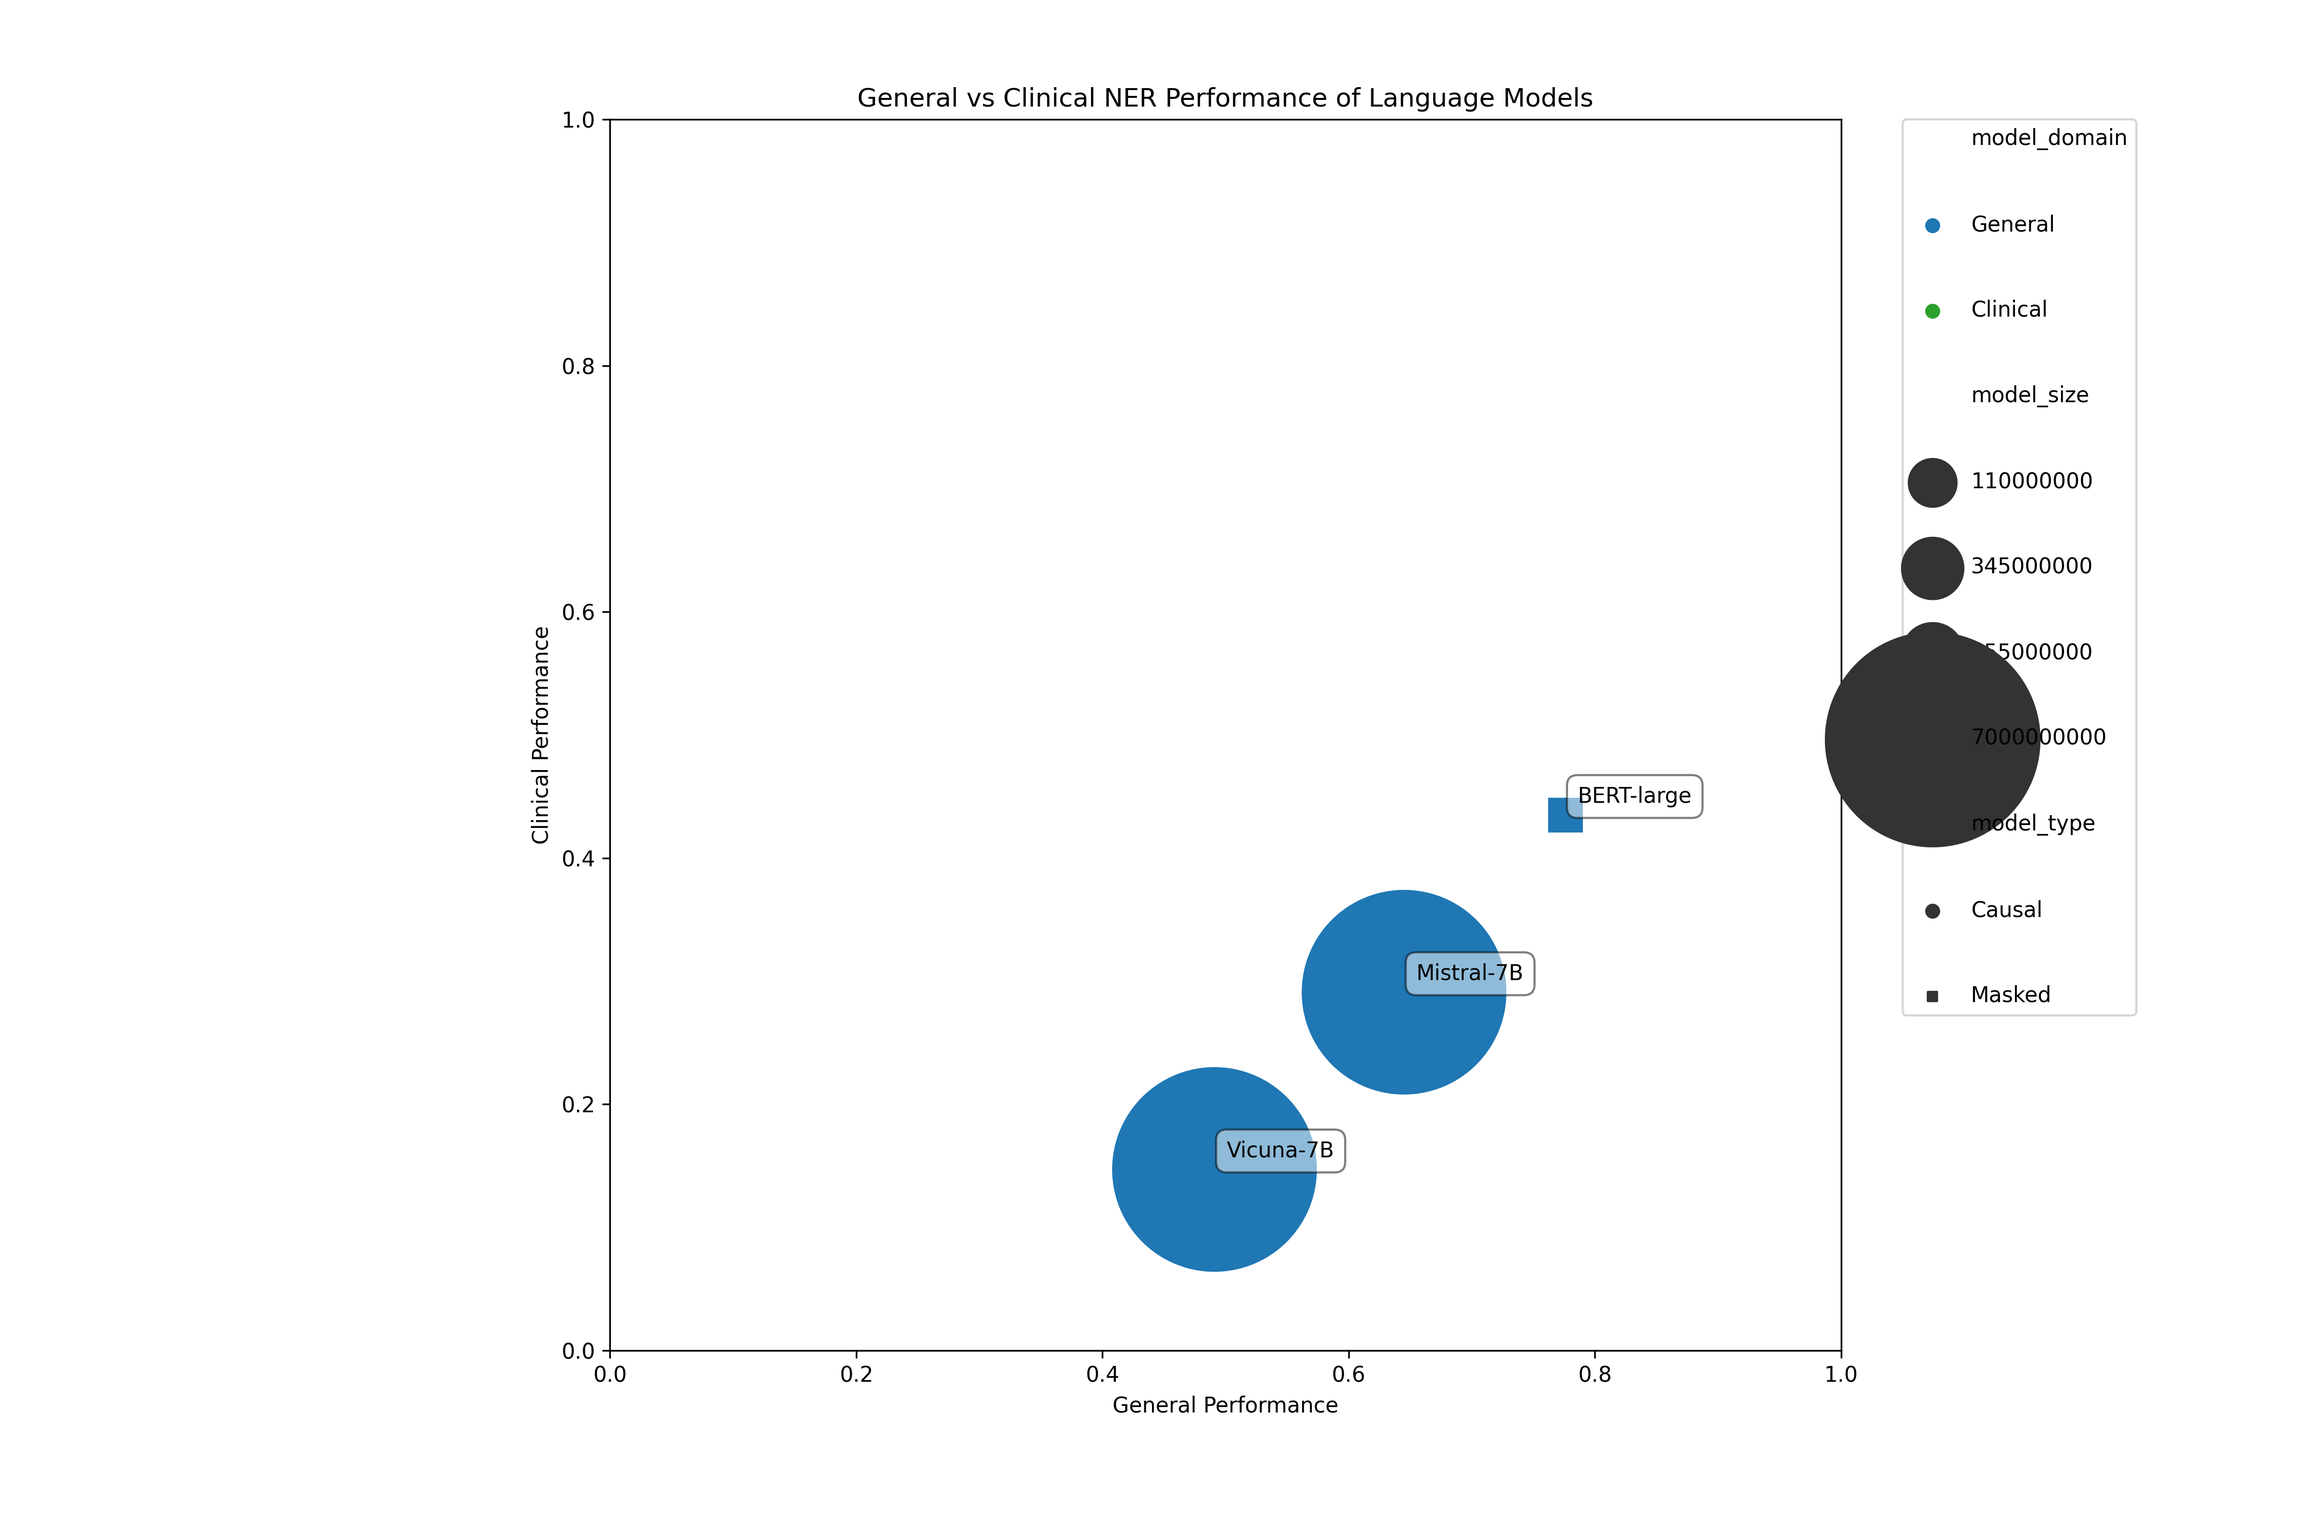
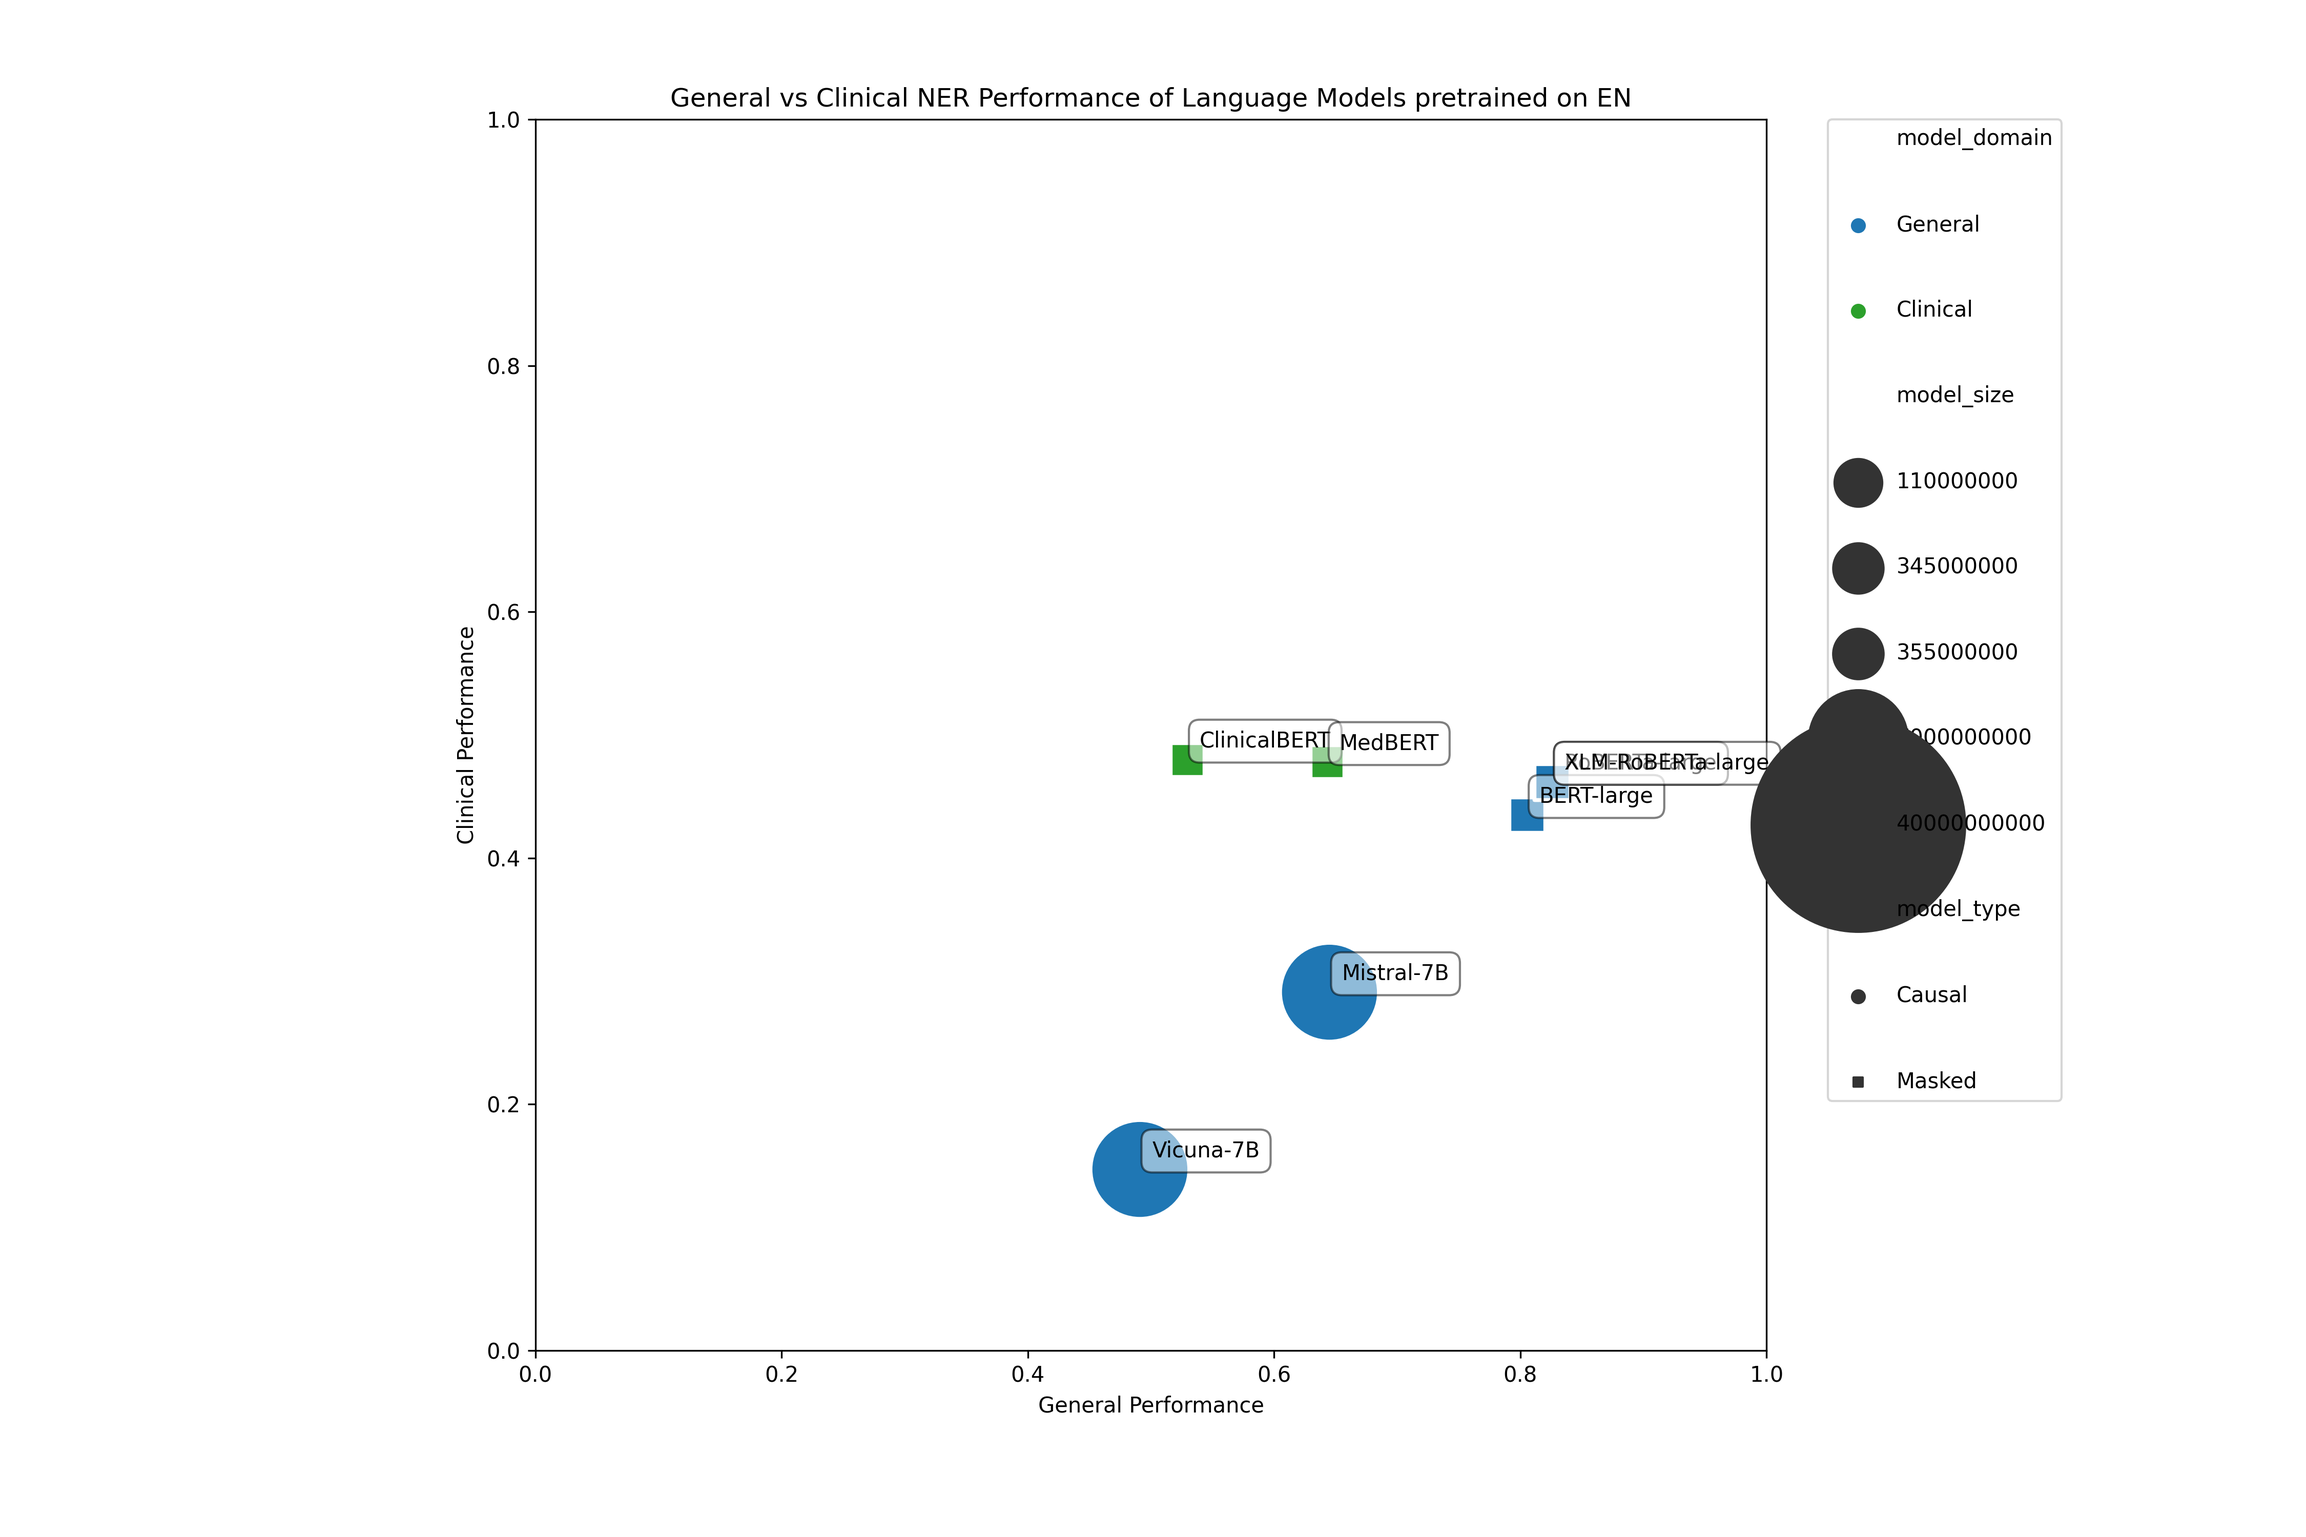
better results

diff --git a/read_jsons.py b/read_jsons.py
@@ -8,30 +8,35 @@ M=10**6
 
 dataset_hierarchy = {
     "en":{
-        "General": [
-            {"conll2003": "CoNLL2003"},
-            {"WikiNER-en": "WikiNER-en"},
-        ],
-        "Clinical": [
-            {"n2c2": "n2c2"},
-        ],
+        "General": {
+            "WikiNER-en": "WikiNER-en",
+            "conll2003": "CoNLL2003",
         },
+        "Clinical": {
+            "e3c-en": "E3C-en",
+            "n2c2": "n2c2",
+        },
+    },
     "fr": {
-        "General": [
-            {"WikiNER-fr": "WikiNER-fr"},
-        ],
-        "Clinical": [
-            {"emea": "EMEA"},
-            {"medline": "MEDLINE"},
-        ],
+        "General": {
+            "WikiNER-fr": "WikiNER-fr",
+        },
+        "Clinical": {
+            "e3c-fr": "E3C-fr",
+            "emea": "EMEA",
+            "medline": "MEDLINE",
+        },
     },
     "es": {
-        "General": [
-            {"conll2002-es": "CoNLL2002"},
-            {"WikiNER-es": "WikiNER-es"},
-        ],
-        "Clinical": []
-    }
+        "General": {
+            "WikiNER-es": "WikiNER-es",
+            "conll2002-es": "CoNLL2002",
+        },
+        "Clinical": {
+            "e3c-es": "E3C-es",
+            "CWL": "CWL",
+        },
+    },
 }
 model_hierarchy = {
     "Masked": {
@@ -40,49 +45,49 @@ model_hierarchy = {
                 "name": "roberta-large", 
                 "clean_name": "RoBERTa-large",
                 "size": 355*M,
-                "languages" : ["en",],
+                "languages" : "en",
             },
             {
                 "name": "camembert-base",
                 "clean_name": "CamemBERT-base",
                 "size": 110*M,
-                "languages" : ["fr",],
+                "languages" : "fr",
             },
             {
                 "name": "camembert-large",
                 "clean_name": "CamemBERT-large",
                 "size": 335*M,
-                "languages" : ["fr",],
+                "languages" : "fr",
             },
             {
                 "name": "bert-large-cased",
                 "clean_name": "BERT-large",
                 "size": 345*M,
-                "languages" : ["en",],
+                "languages" : "en",
             },
             {
                 "name": "tulio-chilean-spanish-bert",
                 "clean_name": "TulioBERT",
                 "size": 110*M,
-                "languages" : ["es",],
+                "languages" : "es",
             },
             {
                 "name": "patana-chilean-spanish-bert",
                 "clean_name": "PatanaBERT",
                 "size": 110*M,
-                "languages" : ["es",],
+                "languages" : "es",
             },
             {
                 "name": "bert-base-spanish-wwm-uncased",
-                "clean_name": "BERT-base-Spanish",
+                "clean_name": "BETO",
                 "size": 110*M,
-                "languages" : ["es",],
+                "languages" : "es",
             },
             {
                 "name": "xlm-roberta-large",
                 "clean_name": "XLM-RoBERTa-large",
                 "size": 355*M,
-                "languages" : ["en", "fr", "es"],
+                "languages" : "all",
             }
         ],
         "Clinical":[
@@ -90,33 +95,45 @@ model_hierarchy = {
                 "name": "ClinicalBERT",
                 "clean_name": "ClinicalBERT",
                 "size": 110*M,
-                "languages" : ["en",],
+                "languages" : "en",
             },
             {
                 "name": "MedBERT",
                 "clean_name": "MedBERT",
                 "size": 110*M,
-                "languages" : ["en",],
+                "languages" : "en",
             },
             {
                 "name": "camembert-bio-base",
                 "clean_name": "CamemBERT-bio",
                 "size": 110*M,
-                "languages" : ["fr",],
+                "languages" : "fr",
             },
             {
                 "name": "DrBERT-4GB",
                 "clean_name": "DrBERT-4GB",
                 "size": 4*B,
-                "languages" : ["fr",],
+                "languages" : "fr",
             },
             {
                 "name": "DrBERT-7GB",
                 "clean_name": "DrBERT-7GB",
                 "size": 7*B,
-                "languages" : ["fr",],
+                "languages" : "fr",
             },
-
+            {
+                "name": "DrBERT-7GB",
+                "clean_name": "DrBERT-7GB",
+                "size": 7*B,
+                "languages" : "fr",
+            },
+            {
+                
+                "name": "BETO_Galen",
+                "clean_name": "BETO-Galen",
+                "size": 110*M,
+                "languages" : "es",
+            },
         ],
     },
     "Causal": {
@@ -125,49 +142,49 @@ model_hierarchy = {
                 "name": "bloom-560m",
                 "clean_name": "BLOOM-560M",
                 "size": 560*M,
-                "languages" : ["en", "fr", "es"],
+                "languages" : "all",
             },
             {
                 "name": "Mistral-7B-Instruct-v0.1",
                 "clean_name": "Mistral-7B-Instruct",
                 "size": 7*B,
-                "languages" : ["en", "fr", "es"],
+                "languages" : "all",
             },
             {
                 "name": "bloom-7b1",
                 "clean_name": "BLOOM-7B1",
                 "size": 7*B,
-                "languages" : ["en", "fr", "es"],
+                "languages" : "all",
             },
             {
                 "name": "falcon-40b-instruct",
                 "clean_name": "Falcon-40B-Instruct",
                 "size": 40*B,
-                "languages" : ["en", "fr", "es"],
+                "languages" : "all",
             },
             {
                 "name": "Mistral-7B-v0.1",
                 "clean_name": "Mistral-7B",
                 "size": 7*B,
-                "languages" : ["en", "fr", "es"],
+                "languages" : "all",
             },
             {
                 "name": "vicuna-7b-v1.5",
                 "clean_name": "Vicuna-7B",
                 "size": 7*B,
-                "languages" : ["en", "fr", "es"],
+                "languages" : "all",
             },
             {
                 "name": "vicuna-13b-v1.5",
                 "clean_name": "Vicuna-13B",
                 "size": 13*B,
-                "languages" : ["en", "fr", "es"],
+                "languages" : "all",
             },
             {
                 "name": "falcon-40b",
                 "clean_name": "Falcon-40B",
                 "size": 40*B,
-                "languages" : ["en", "fr", "es"],
+                "languages" : "all",
             },
         ],
     }
@@ -180,21 +197,22 @@ model_types = {}
 model_sizes = {}
 model_clean_names = {}
 dataset_names = {}
+model_langs = {}
 for model_type in model_hierarchy:
     for model_domain in model_hierarchy[model_type]:
         for model in model_hierarchy[model_type][model_domain]:
             model_name = model['name']
             model_domains[model_name] = model_domain
             model_types[model_name] = model_type
+            model_langs[model_name] = model['languages']
             model_sizes[model_name] = model['size']
             model_clean_names[model_name] = model['clean_name']
 for lang in dataset_hierarchy:
     for domain in dataset_hierarchy[lang]:
-        for dataset in dataset_hierarchy[lang][domain]:
-            for dataset_name in dataset:
-                dataset_domains[dataset_name] = domain
-                dataset_langs[dataset_name] = lang
-                dataset_names[dataset_name] = dataset[dataset_name]
+        for dataset_name in dataset_hierarchy[lang][domain]:
+            dataset_domains[dataset_name] = domain
+            dataset_langs[dataset_name] = lang
+            dataset_names[dataset_name] = dataset_hierarchy[lang][domain][dataset_name]
 
 def read_jsons(path):
     jsons = glob(os.path.join(path, '*.json'))

diff --git a/scatterplot_results.py b/scatterplot_results.py
@@ -2,7 +2,8 @@ import os
 import pandas as pd
 import seaborn as sns
 from matplotlib import pyplot as plt
-from read_jsons import read_jsons, model_domains, model_types, model_sizes, model_clean_names, dataset_names
+from read_jsons import read_jsons, model_domains, model_types, model_sizes, model_clean_names, dataset_names, model_langs
+from read_jsons import dataset_hierarchy, model_hierarchy
 import argparse
 
 parser = argparse.ArgumentParser()
@@ -17,6 +18,8 @@ if not args.local:
     os.system(cmd2)
     print('Done.')
 df = read_jsons('results')
+#clear DrBERT
+df = df[~df['model_name'].str.contains('DrBERT-7GB')]
 
 scatter_data = []
 for language, df_lang in df.groupby('lang'):
@@ -70,7 +73,7 @@ for lang in ['en', 'fr', 'es']:
                 bbox=dict(facecolor='white',alpha=0.5,edgecolor='black',boxstyle='round,pad=0.5')
             )
 
-    plt.title("General vs Clinical NER Performance of Language Models")
+    plt.title("General vs Clinical NER Performance of Language Models pretrained on " + lang.upper())
     plt.xlabel("General Performance")
     plt.ylabel("Clinical Performance")
     plt.xlim(0,1)
@@ -81,21 +84,28 @@ for lang in ['en', 'fr', 'es']:
     plt.gcf().set_size_inches(15, 10)
     plt.savefig(f'figures/{lang}_scatterplot.png', dpi=300)
 
-    df_lang = df[df['lang'] == lang]
-    df_lang = df_lang.sort_values(by=['dataset_domain', 'dataset_name'])
-    df_lang = df_lang[['model_name', 'model_clean_name', 'dataset_name', 'f1']]
-    df_lang = df_lang.pivot(index='model_name', columns='dataset_name', values='f1')
-    df_lang['model_type'] = df_lang.index.map(lambda x: model_types[x])
-    df_lang['model_domain'] = df_lang.index.map(lambda x: model_domains[x])
-    df_lang.index = df_lang.index.map(lambda x: model_clean_names[x])
+df_table = df.pivot(index='model_name', columns='dataset_name', values='f1')
+#unsafe way to get the order of the datasets.. TODO: find a better way
+ordered_datasets = {k:list(v['General'].values())+list(v['Clinical'].values()) for k,v in dataset_hierarchy.items()}
+df_table = df_table.rename(columns=dataset_names)
+for lang in ordered_datasets:
+    for dataset in ordered_datasets[lang]:
+        if dataset not in df_table.columns:
+            print(dataset)
+            df_table[dataset] = '-'
 
-    df_lang = df_lang.sort_values(by=['model_type', 'model_domain'], ascending=[True, False])
-    df_lang.drop(columns=['model_type', 'model_domain'], inplace=True)
-    df_lang = df_lang.rename_axis(None, axis=1)
+#sort lines by model type, language and domain
+df_table['model_type'] = df_table.index.map(lambda x: model_types[x])
+df_table['model_language'] = df_table.index.map(lambda x: model_langs[x])
+df_table['model_domain'] = df_table.index.map(lambda x: model_domains[x])
+df_table.index = df_table.index.map(lambda x: model_clean_names[x])
+df_table = df_table.sort_values(by=['model_type', 'model_language', 'model_domain'], ascending=[True, True, False])
+df_table.drop(columns=['model_type', 'model_domain'], inplace=True)
+df_table = df_table.fillna('-')
 
-    df_lang = df_lang.rename(columns=dataset_names)
-    df_lang = df_lang.rename_axis(None, axis=1)
-    df_lang = df_lang.rename_axis(None, axis=0)
-    df_lang = df_lang.fillna('-')
-    with open(f'tables/{lang}_results.tex', 'w') as f:
-        f.write(df_lang.to_latex(escape=False, float_format="%.3f", na_rep="-"))
+df_table = df_table.rename_axis(None, axis=1)
+df_table = df_table.rename_axis(None, axis=0)
+
+
+df_table = df_table[ordered_datasets['en'] + ordered_datasets['es'] + ordered_datasets['fr']]
+print(df_table)

diff --git a/tables/en_results.tex b/tables/en_results.tex
@@ -1,14 +1,13 @@
-\begin{tabular}{lllr}
+\begin{tabular}{llrr}
 \toprule
  & WikiNER-en & CoNLL2003 & n2c2 \\
 \midrule
 Mistral-7B & - & 0.645 & 0.291 \\
 Vicuna-7B & 0.594 & 0.388 & 0.147 \\
-BERT-large & 0.776 & - & 0.435 \\
-RoBERTa-large & - & - & 0.462 \\
-XLM-RoBERTa-large & - & - & 0.462 \\
-ClinicalBERT & - & - & 0.480 \\
-MedBERT & - & - & 0.478 \\
-CamemBERT-bio & - & - & 0.440 \\
+BERT-large & 0.776 & 0.835 & 0.435 \\
+RoBERTa-large & 0.790 & 0.862 & 0.462 \\
+XLM-RoBERTa-large & - & 0.826 & 0.462 \\
+ClinicalBERT & 0.462 & 0.597 & 0.480 \\
+MedBERT & 0.613 & 0.673 & 0.478 \\
 \bottomrule
 \end{tabular}

diff --git a/tables/fr_results.tex b/tables/fr_results.tex
@@ -5,8 +5,8 @@
 Mistral-7B & 0.727 & 0.229 & 0.333 \\
 Vicuna-7B & - & 0.152 & 0.296 \\
 CamemBERT-large & 0.829 & 0.661 & 0.577 \\
-XLM-RoBERTa-large & - & 0.629 & 0.531 \\
+XLM-RoBERTa-large & 0.811 & 0.629 & 0.531 \\
 DrBERT-4GB & 0.587 & 0.602 & 0.486 \\
-DrBERT-7GB & - & 0.588 & 0.469 \\
+CamemBERT-bio & 0.782 & 0.636 & 0.549 \\
 \bottomrule
 \end{tabular}

diff --git a/tables/es_results.tex b/tables/es_results.tex
@@ -3,6 +3,9 @@
  & WikiNER-es \\
 \midrule
 BERT-base-Spanish & 0.794 \\
+PatanaBERT & 0.802 \\
 TulioBERT & 0.804 \\
+XLM-RoBERTa-large & 0.797 \\
+BETO-Galen & 0.149 \\
 \bottomrule
 \end{tabular}
